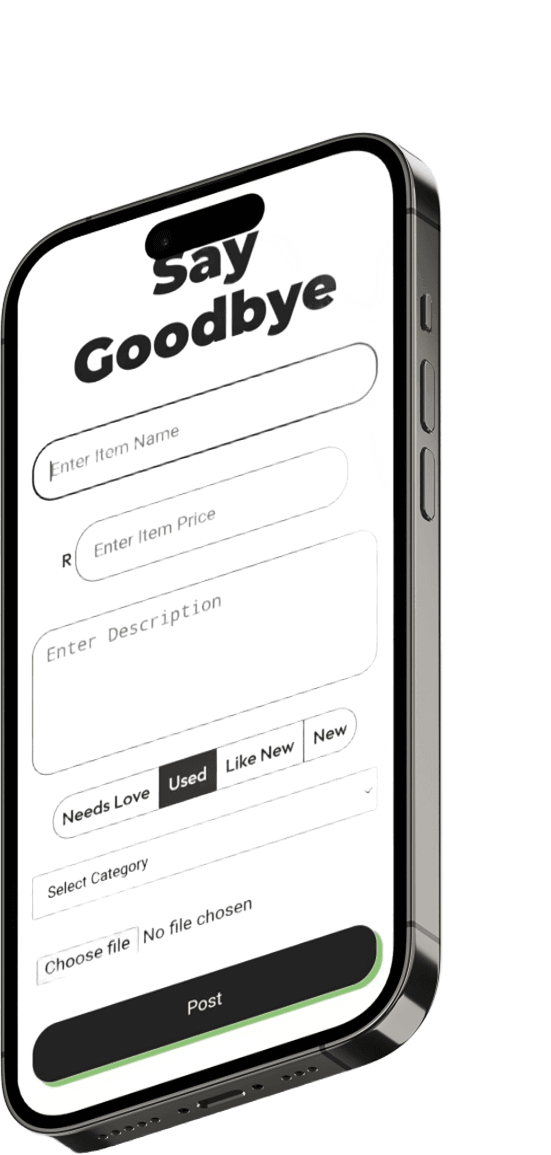
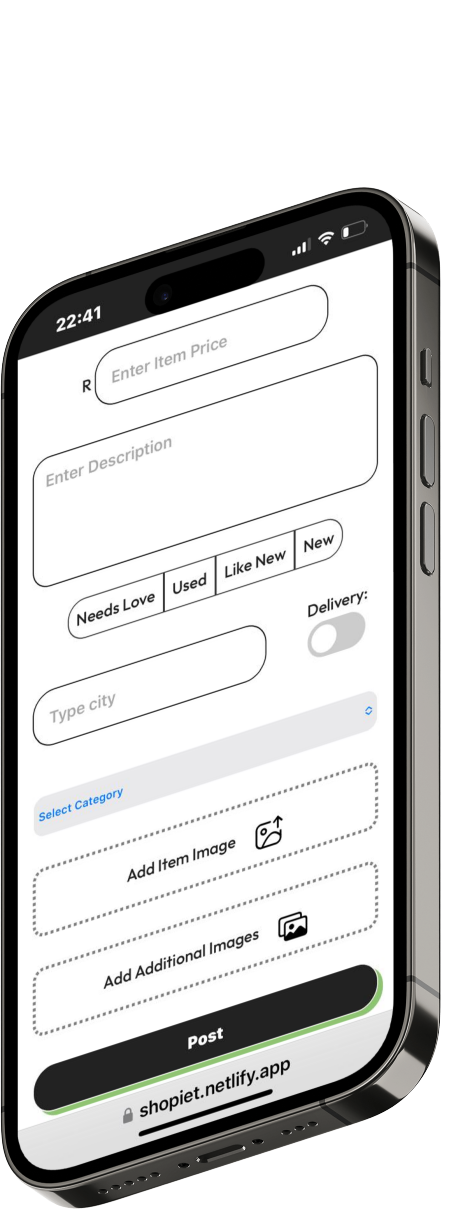
Adjusted  mockups for shopiet project

diff --git a/src/components/Work.jsx b/src/components/Work.jsx
@@ -5,9 +5,9 @@ import useElementInView from '../utils/ElementInView'
 import project1image from '../assets/excelsior.webp'
 import imgNews2 from '../assets/news2.webp'
 import imgNews3 from '../assets/news3.webp'
-import imgShopiet2 from '../assets/right.webp'
+import imgShopiet2 from '../assets/right.png'
 import imgShopiet3 from '../assets/left.png'
-import imgShopiet1 from '../assets/middle.webp'
+import imgShopiet1 from '../assets/middle.png'
 import imgSylka2 from '../assets/sylka2.webp'
 import imgSylka3 from '../assets/sylka3.webp'
 import imgMunch2 from '../assets/munch2.webp'

diff --git a/src/css/work.css b/src/css/work.css
@@ -233,7 +233,10 @@ border: none;
     margin-left: 55%
 }
 .proj-img-2{
-    margin-left: 6%;
+    margin-left: 20%;
+}
+.proj-img-3{
+    margin-right: 20%;
 }
 
 .project-imgs-cnt:hover .proj-img-3{
@@ -244,6 +247,7 @@ border: none;
 .project-imgs-cnt .project-img{
     border: none;
 }
+
 
 .proj-img-1, .proj-img-3, .proj-img-2{
  height: 500px;
